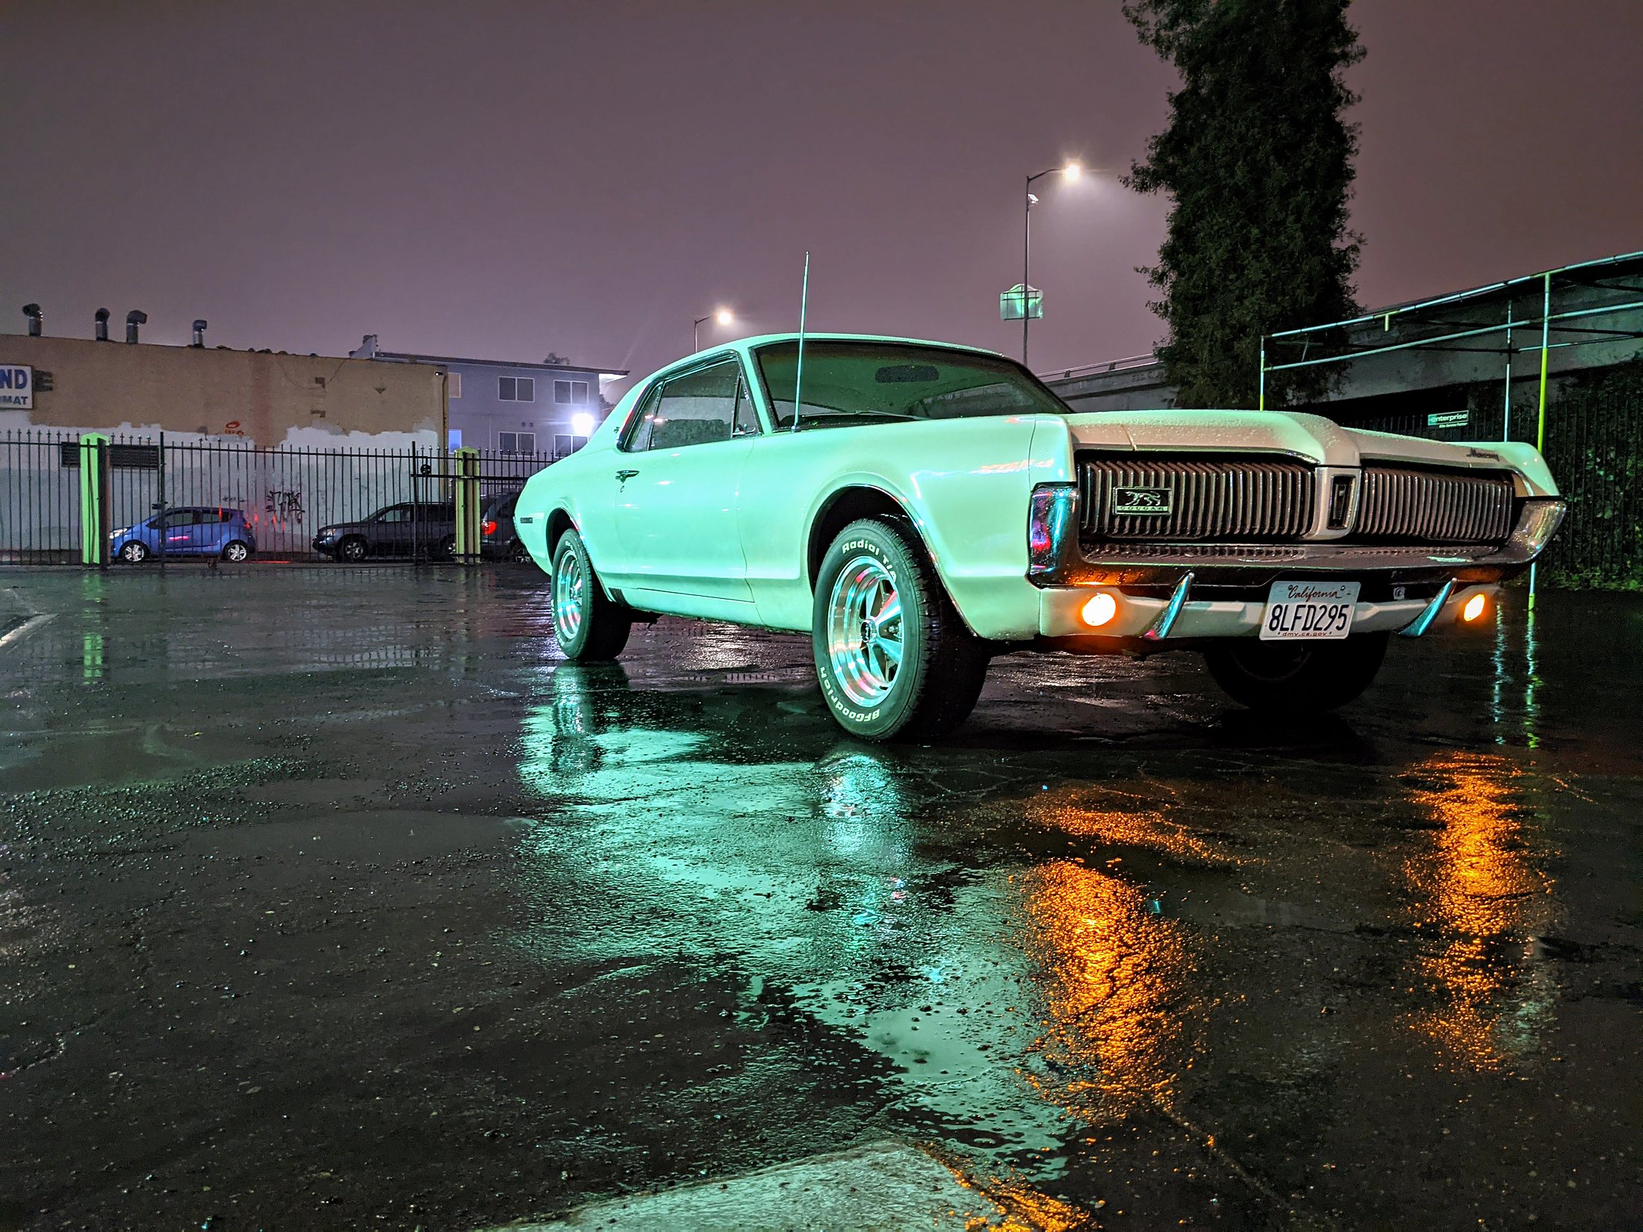
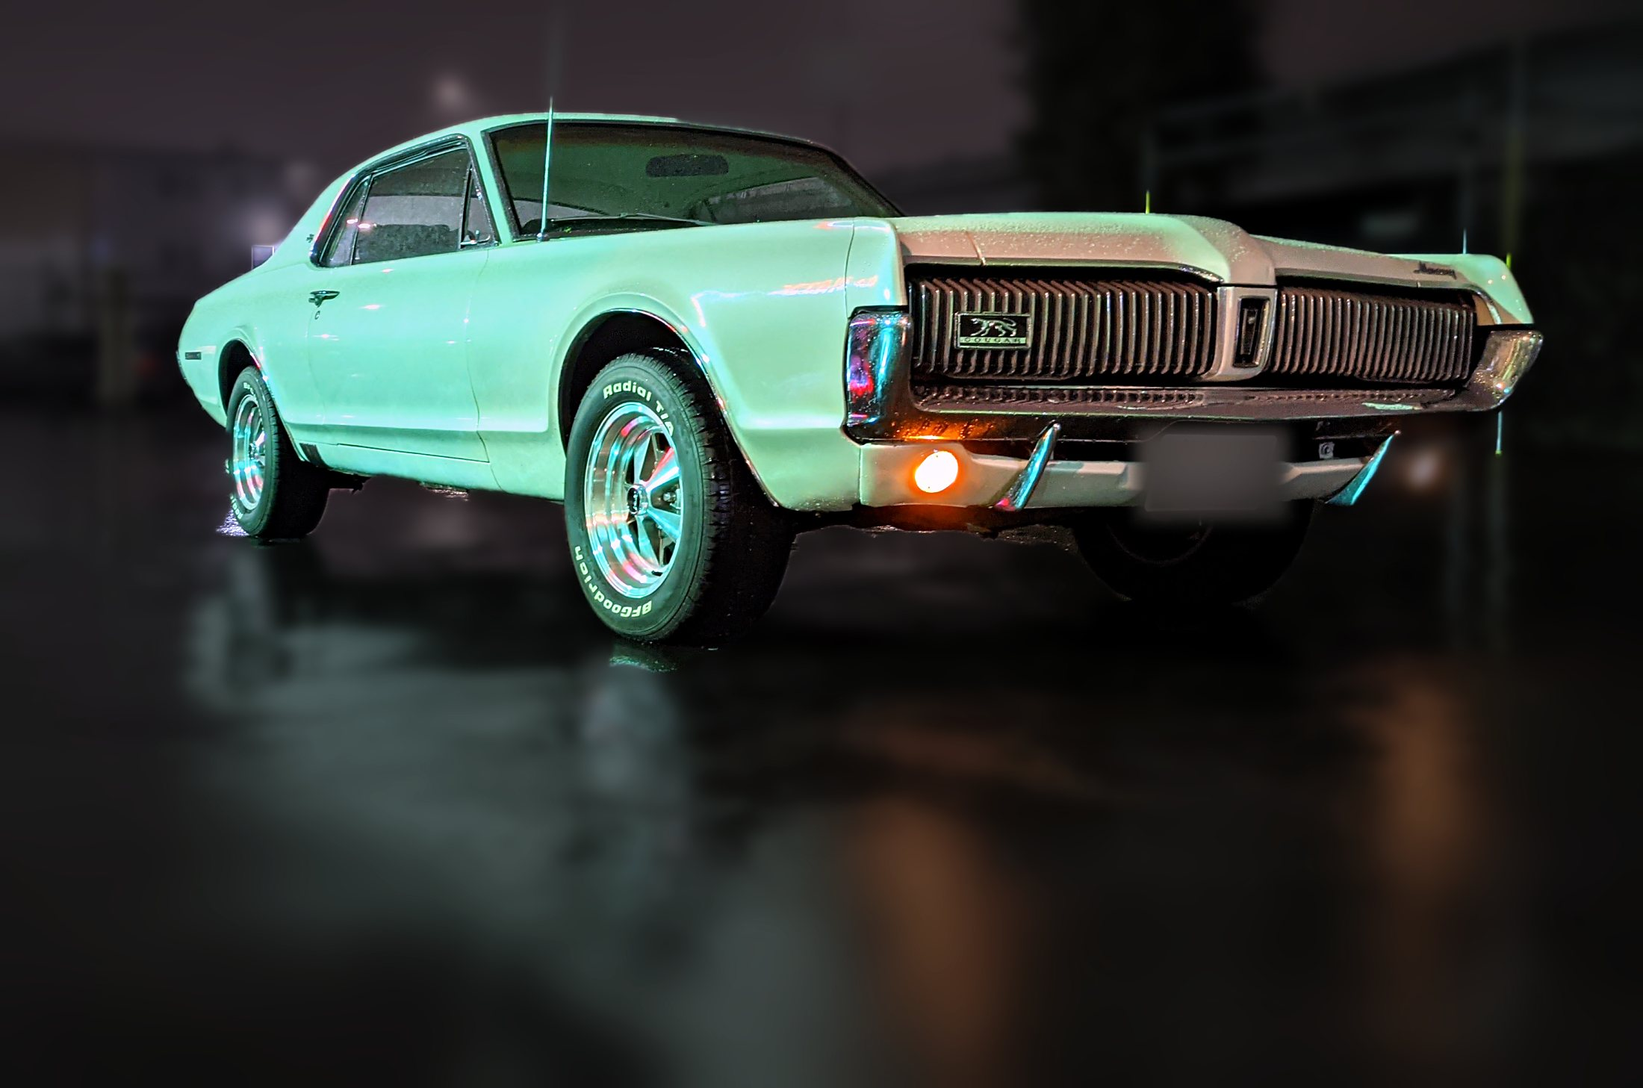
Privacy blurs, tighter crops, background treatment; ownership timeline

diff --git a/index.html b/index.html
@@ -27,7 +27,7 @@
 <header class="mast wrap">
   <p class="kicker">Classic Cougar &middot; XR-7 &middot; Offered Direct</p>
   <h1>1967 Mercury Cougar <span class="nb">XR-7</span></h1>
-  <p class="deck">Pearl white, no vinyl top and a 289 V8. A well-traveled driver’s car: one owner from new, then the West Coast Classic Cougars “shop mule,” now ready for the next road trip.</p>
+  <p class="deck">Pearl white, no vinyl top and a 289 V8. A well-traveled driver’s car with just three owners since new, including the West Coast Classic Cougars “shop mule,” now ready for the next road trip.</p>
   <p class="byline"><span>289 2V V8</span><span>C4 Automatic</span><span>Power Disc Brakes</span><span>Dual Exhaust</span></p>
 </header>
 
@@ -40,7 +40,7 @@
 
   <article class="story">
 
-    <p class="lede">Purchased new in Oregon by an electrical engineer who kept it for nearly five decades, this 1967 Cougar XR-7 passed to Don Rush, owner of West Coast Classic Cougars, who used it as a daily driver and shop car. It has been with its current Northern California owners since 2019, a family that runs a long-standing automotive body shop.</p>
+    <p class="lede">This 1967 Cougar XR-7 has had three owners. An electrical engineer bought it new in Oregon and kept it for 47 years, until 2014. It then passed to Don Rush, owner of West Coast Classic Cougars, who owned it until 2019. Its current Northern California owners, a family that runs a long-standing automotive body shop, have had it since 2019.</p>
 
     <h2>The Car</h2>
     <p>Mercury built the Cougar as the more refined cousin of the Mustang, and the XR-7 sat at the top of the 1967 line. It brought simulated wood trim, leather-trimmed bucket seats and a full instrument cluster with tachometer. Hidden headlamps, sequential rear turn signals and the long hood gave it the look that still sets it apart.</p>
@@ -54,24 +54,24 @@
     <h2>Ownership History</h2>
     <ol class="timeline">
       <li>
-        <span class="timeline__yr">1967</span>
+        <span class="timeline__yr">1967&ndash;2014</span>
         <div>
-          <h3>Original owner, Oregon</h3>
-          <p>An electrical engineer bought the Cougar new and used it to travel between dam projects across the West, putting roughly 320,000 miles on the car by the time West Coast Classic Cougars featured it. He maintained it himself, using his professional knowledge on the wiring, lighting and mechanical systems. The car arrived at the shop with a single, heavily worn shop manual rather than a stack of invoices. In the early 2000s he rebuilt the engine, restored the interior and repainted the car from Mercury Green to pearlescent white. The finished car won several local awards.</p>
+          <h3>First owner, Oregon &middot; 47 years</h3>
+          <p>An electrical engineer bought the Cougar new in 1967 and kept it for 47 years. He used it to travel between dam projects across the West, and the car shows about 320,000 miles overall. He maintained it himself, using his professional knowledge on the wiring, lighting and mechanical systems. The car arrived at the shop with a single, heavily worn shop manual rather than a stack of invoices. In the early 2000s he rebuilt the engine, restored the interior and repainted the car from Mercury Green to pearlescent white. The finished car won several local awards.</p>
         </div>
       </li>
       <li>
         <span class="timeline__yr">2014&ndash;19</span>
         <div>
-          <h3>Don Rush, West Coast Classic Cougars</h3>
+          <h3>Second owner: Don Rush, West Coast Classic Cougars &middot; 5 years</h3>
           <p>After the original owner passed away, the car went to his close friend and advisor Don Rush, who had helped source parts and restore elements of the Cougar over the years. Rush is the owner of West Coast Classic Cougars, a well-known resource for Cougar owners, parts and restoration advice. The Cougar, nicknamed “Pearl,” served as a shop mule and daily driver for about five years, used for test-fitting parts and filming how-to videos. Rather than a sterile restoration, the goal was to keep it a reliable, driver-quality car. The shop replaced the sagging leaf springs to cure the classic Cougar driver-side lean, repaired the dash, restored the steering wheel, rebuilt the Rallye clock and added projector-beam halogen headlights and one-off milled wheels. The car has been featured in news publications and on Rush’s YouTube show.</p>
         </div>
       </li>
       <li>
-        <span class="timeline__yr">2019</span>
+        <span class="timeline__yr">2019&ndash;now</span>
         <div>
-          <h3>Current owners, Northern California</h3>
-          <p>Don Rush sold the Cougar in 2019 to its current owners, who run a long-standing, top-tier automotive body shop in Northern California. They are long-time enthusiasts who value the car’s history and have continued to look after it.</p>
+          <h3>Third (current) owner, Northern California</h3>
+          <p>Don Rush sold the Cougar in 2019 to its current owners, the car’s third owner, who run a long-standing, top-tier automotive body shop in Northern California. They are long-time enthusiasts who value the car’s history and have continued to look after it.</p>
         </div>
       </li>
     </ol>
@@ -137,7 +137,8 @@
         <div><dt>Interior</dt><dd>Matching white</dd></div>
         <div><dt>Roof</dt><dd>No vinyl top</dd></div>
         <div><dt>Wheels</dt><dd>One-off milled, BFGoodrich Radial T/A</dd></div>
-        <div><dt>Odometer</dt><dd>About 320,000 miles (as stated in the WCCC video)</dd></div>
+        <div><dt>Odometer</dt><dd>About 320,000 miles</dd></div>
+        <div><dt>Owners</dt><dd>Three, since new</dd></div>
         <div><dt>Condition</dt><dd>Unrestored driver, typical rust spots</dd></div>
         <div><dt>Records</dt><dd>Documentation and service records</dd></div>
         <div><dt>Location</dt><dd>San Francisco Bay Area</dd></div>
@@ -162,11 +163,7 @@
     <a class="g g--w" href="img/street-wide.jpg"><img style="object-position:50% 72%" src="img/street-wide-sm.jpg" alt="Cougar parked on a city street at dusk" loading="lazy"><span>Street scene at dusk</span></a>
     <a class="g" href="img/underside.jpg"><img style="object-position:50% 50%" src="img/underside-sm.jpg" alt="Undercarriage of the car on a lift" loading="lazy"><span>Undercarriage on the lift</span></a>
     <a class="g" href="img/grass-front.jpg"><img src="img/grass-front-sm.jpg" alt="Front three-quarter view on grass" loading="lazy"><span>Front three-quarter</span></a>
-    <a class="g" href="img/grass-low.jpg"><img src="img/grass-low-sm.jpg" alt="Low front view in golden light" loading="lazy"><span>Golden hour, low</span></a>
-    <a class="g" href="img/grass-hood.jpg"><img src="img/grass-hood-sm.jpg" alt="Hood and grille from above in golden light" loading="lazy"><span>Hood and grille</span></a>
-    <a class="g" href="img/grass-overhead.jpg"><img src="img/grass-overhead-sm.jpg" alt="Overhead view of hood and cabin" loading="lazy"><span>Overhead</span></a>
-    <a class="g" href="img/grass-rear-side.jpg"><img src="img/grass-rear-side-sm.jpg" alt="Rear three-quarter view on grass" loading="lazy"><span>Rear three-quarter</span></a>
-    <a class="g" href="img/grass-rear.jpg"><img src="img/grass-rear-sm.jpg" alt="Rear quarter view with milled wheels" loading="lazy"><span>Rear quarter</span></a>
+    <a class="g g--w" href="img/grass-rear.jpg"><img src="img/grass-rear-sm.jpg" alt="Rear quarter view with milled wheels" loading="lazy"><span>Rear quarter</span></a>
   </div>
   <p class="note">More photos, including detail shots, are available on request.</p>
 </section>

diff --git a/tools/process.py b/tools/process.py
@@ -1,0 +1,144 @@
+import sys, os, numpy as np, cv2
+from PIL import Image, ImageFilter
+sys.path.insert(0, os.path.dirname(__file__))
+from cfg import CFG
+import grade as G   # reuse grade() / P presets  (grade.py guards its batch loop)
+
+SRC = r'C:\Users\rhkal\AppData\Local\Temp\claude\C--Users-rhkal\c50d7345-d0a9-4127-98ac-6b742ef4643e\images'
+OUT = r'C:\Users\rhkal\cougar-xr7\img'
+DBG = r'C:\Users\rhkal\AppData\Local\Temp\claude\C--Users-rhkal\c50d7345-d0a9-4127-98ac-6b742ef4643e\scratchpad\dbg'
+os.makedirs(DBG, exist_ok=True)
+
+
+def poly_mask(shape, pts, s):
+    m = np.zeros(shape[:2], np.uint8)
+    cv2.fillPoly(m, [np.round(np.array(pts, np.float64) * s).astype(np.int32)], 255)
+    return m
+
+
+def privacy_blur(img, regions, s, protect=None):
+    """Strongly blur each region (feathered) so plates / faces / signage are unreadable."""
+    out = img.astype(np.float32)
+    for pts in regions:
+        m = poly_mask(img.shape, pts, s)
+        x, y, w, h = cv2.boundingRect(m)
+        sig = max(6.0, 0.33 * min(w, h)) if min(w, h) < 120 * s else max(10.0, 0.18 * min(w, h))
+        sig = min(sig, 40 * s)
+        k = int(sig * 6) | 1
+        pad = int(sig * 3)
+        x0, y0, x1, y1 = max(0, x - pad), max(0, y - pad), min(img.shape[1], x + w + pad), min(img.shape[0], y + h + pad)
+        patch = cv2.GaussianBlur(img[y0:y1, x0:x1], (k, k), sig).astype(np.float32)
+        # blur twice for text so edges don't survive
+        patch = cv2.GaussianBlur(patch, (k, k), sig)
+        fm = cv2.GaussianBlur(m[y0:y1, x0:x1].astype(np.float32) / 255, (0, 0), max(2, sig * .25))
+        if protect is not None:
+            fm = fm * (1 - protect[y0:y1, x0:x1])
+        fm = fm[..., None]
+        out[y0:y1, x0:x1] = out[y0:y1, x0:x1] * (1 - fm) + patch * fm
+    return np.clip(out, 0, 255).astype(np.uint8)
+
+
+def car_mask(img, pts, s, grab=True, band=0.018):
+    """Hand-drawn outline -> GrabCut-refined mask (computed at <=1400px wide)."""
+    H, W = img.shape[:2]
+    k = min(1.0, 1400 / W)
+    small = cv2.resize(img, (round(W * k), round(H * k)), interpolation=cv2.INTER_AREA)
+    sh, sw = small.shape[:2]
+    P = poly_mask(small.shape, pts, s * k)
+    bw = max(5, int(sw * band))
+    ker = cv2.getStructuringElement(cv2.MORPH_ELLIPSE, (2 * bw + 1, 2 * bw + 1))
+    sure_fg = cv2.erode(P, ker)
+    probable = cv2.dilate(P, ker)
+    m = np.full((sh, sw), cv2.GC_BGD, np.uint8)
+    m[probable > 0] = cv2.GC_PR_BGD
+    m[P > 0] = cv2.GC_PR_FGD
+    m[sure_fg > 0] = cv2.GC_FGD
+    if grab:
+        bgd = np.zeros((1, 65)); fgd = np.zeros((1, 65))
+        cv2.grabCut(cv2.cvtColor(small, cv2.COLOR_RGB2BGR), m, None, bgd, fgd, 6, cv2.GC_INIT_WITH_MASK)
+    fg = ((m == cv2.GC_FGD) | (m == cv2.GC_PR_FGD)).astype(np.uint8) * 255
+    fg = cv2.morphologyEx(fg, cv2.MORPH_CLOSE, cv2.getStructuringElement(cv2.MORPH_ELLIPSE, (9, 9)))
+    n, lab, st, _ = cv2.connectedComponentsWithStats(fg)
+    if n > 1:
+        fg = (lab == 1 + np.argmax(st[1:, cv2.CC_STAT_AREA])).astype(np.uint8) * 255
+    # fill holes
+    inv = 255 - fg
+    n, lab, st, _ = cv2.connectedComponentsWithStats(inv)
+    for i in range(1, n):
+        x, y, w, h = st[i, :4]
+        if x > 0 and y > 0 and x + w < sw and y + h < sh:
+            fg[lab == i] = 255
+    fg = cv2.GaussianBlur(fg, (0, 0), 1.2)
+    return cv2.resize(fg, (W, H), interpolation=cv2.INTER_LINEAR).astype(np.float32) / 255
+
+
+def treat_background(img, alpha, bg):
+    """Darken + desaturate + distance-weighted blur on everything that is not the car."""
+    f = img.astype(np.float32) / 255
+    a = alpha[..., None]
+    w = img.shape[1]
+    inv = 1 - a
+
+    def mblur(sig):
+        num = cv2.GaussianBlur(f * inv, (0, 0), sig)
+        den = cv2.GaussianBlur(inv, (0, 0), sig)[..., None]
+        return np.where(den > 1e-3, num / np.maximum(den, 1e-3), cv2.GaussianBlur(f, (0, 0), sig))
+
+    s1, s2 = bg['blur'] * w * .5, bg['blur'] * w * 1.8
+    b1, b2 = mblur(s1), mblur(s2)
+    dist = cv2.distanceTransform((alpha < .5).astype(np.uint8), cv2.DIST_L2, 5)
+    t = np.clip(dist / (0.22 * w), 0, 1)[..., None]
+    t = t * t * (3 - 2 * t)
+    bgi = b1 * (1 - t) + b2 * t
+    lum = (bgi[..., 0] * .2126 + bgi[..., 1] * .7152 + bgi[..., 2] * .0722)[..., None]
+    bgi = lum + (bgi - lum) * (1 - bg['desat'])
+    bgi *= bg['dark']
+    bgi = np.where(bgi < .26, bgi, .26 + (bgi - .26) * .35)   # tame bright backgrounds so nothing glows around the car
+    car = np.clip(f * 1.04, 0, 1)
+    return np.clip(car * a + bgi * (1 - a), 0, 1)
+
+
+def run(name, review=False):
+    c = CFG[name]
+    img = np.array(Image.open(os.path.join(SRC, c['src'])).convert('RGB'))
+    H, W = img.shape[:2]
+    s = W / 1000.0
+    alpha = None
+    if c.get('car'):
+        alpha = car_mask(img, c['car'], s, c.get('grab', True), c.get('band', 0.018))   # outline is traced on the untouched photo
+    prot = None
+    if alpha is not None:
+        prot = cv2.dilate(alpha, cv2.getStructuringElement(cv2.MORPH_ELLIPSE, (7, 7)))
+    img = privacy_blur(img, c.get('blur', []), s, protect=prot)     # signage etc: background only
+    img = privacy_blur(img, c.get('plates', []), s)                  # plates / faces: everywhere
+    if review and alpha is not None:
+        ov = img.copy().astype(np.float32)
+        ov[..., 0] = ov[..., 0] * (1 - .45 * alpha) + 255 * .45 * alpha
+        cv2.polylines(ov, [np.round(np.array(c['car']) * s).astype(np.int32)], True, (0, 255, 255), max(1, int(s)))
+        v = Image.fromarray(np.clip(ov, 0, 255).astype(np.uint8)); v.thumbnail((1100, 1100))
+        v.save(os.path.join(DBG, name + '_mask.jpg'), quality=85)
+    if c.get('crop'):
+        x0, y0, x1, y1 = [int(round(v * s)) for v in c['crop']]
+        x0, y0 = max(0, x0), max(0, y0); x1, y1 = min(W, x1), min(H, y1)
+        img = img[y0:y1, x0:x1]
+        alpha = alpha[y0:y1, x0:x1] if alpha is not None else None
+    h, w = img.shape[:2]
+    tw = 2200 if w > 2000 else (1280 if h > w else 1600)
+    th = round(h * tw / w)
+    img = cv2.resize(img, (tw, th), interpolation=cv2.INTER_LANCZOS4 if tw > w else cv2.INTER_AREA)
+    if alpha is not None:
+        alpha = np.clip(cv2.resize(alpha, (tw, th), interpolation=cv2.INTER_LINEAR), 0, 1)
+        out = treat_background(img, alpha, c['bg'])
+        img = (out * 255).astype(np.uint8)
+    g = G.grade(Image.fromarray(img), G.P[c['preset']]).filter(ImageFilter.UnsharpMask(1.0, 45, 3))
+    g.save(os.path.join(OUT, name + '.jpg'), quality=84, optimize=True, progressive=True)
+    t = g.copy(); t.thumbnail((900, 900))
+    t.save(os.path.join(OUT, name + '-sm.jpg'), quality=80, optimize=True, progressive=True)
+    return g
+
+
+if __name__ == '__main__':
+    names = [n for n in sys.argv[1:] if not n.startswith('-')] or list(CFG)
+    for n in names:
+        run(n, review=True)
+        print('done', n)

diff --git a/tools/cfg.py b/tools/cfg.py
@@ -1,0 +1,48 @@
+# Coordinates are in "preview space": the source image scaled to 1000px wide (see grid.py).
+R = lambda x0, y0, x1, y1: [(x0, y0), (x1, y0), (x1, y1), (x0, y1)]
+
+CFG = {
+ 'front-dusk': dict(src='11.jpg', preset='dusk', crop=(0, 150, 900, 750),
+   car=[(42,388),(55,362),(100,342),(170,328),(230,322),(300,318),(410,318),(445,280),(480,266),(560,256),(620,253),(660,258),(700,275),(735,300),(780,340),(815,372),(822,385),(815,400),(795,410),(790,440),(775,470),(745,478),(728,465),(724,450),(690,446),(600,447),(555,455),(550,500),(520,538),(480,546),(430,536),(405,505),(400,495),(340,492),(300,488),(210,487),(150,470),(100,450),(60,430),(45,412)],
+   plates=[R(148,442,212,492)], blur=[                                       # plate
+         [(350,112),(560,172),(735,240),(735,280),(560,220),(350,152)],   # neon storefront text
+         R(268,50,322,110), R(775,215,825,250), [(640,140),(720,150),(722,265),(645,255)],
+         R(315,250,600,400)],                                          # store windows / people
+   bg=dict(dark=.55, desat=.55, blur=.010)),
+ 'profile': dict(src='1.jpg', preset='day', crop=(20, 260, 980, 740),
+   band=.010, car=[(64,538),(75,505),(110,490),(200,478),(290,455),(320,428),(360,416),(500,413),(548,417),(580,455),(630,488),(700,480),(830,490),(915,512),(942,540),(945,565),(915,580),(870,575),(850,600),(845,630),(820,652),(785,660),(745,650),(718,620),(712,600),(640,608),(560,610),(430,608),(335,605),(328,640),(305,660),(262,665),(222,655),(205,620),(205,590),(150,585),(95,575),(68,560)],
+   blur=[R(430,290,530,405)],                                       # people on the porch
+   bg=dict(dark=.62, desat=.5, blur=.011)),
+ 'night-quarter': dict(src='2.jpg', preset='night', crop=(40, 320, 800, 743),
+   car=[(130,525),(135,500),(200,488),(290,478),(325,460),(350,430),(380,415),(440,412),(550,418),(580,428),(640,455),(700,495),(715,520),(718,560),(695,580),(690,615),(665,640),(640,645),(630,620),(620,600),(560,600),(540,610),(540,650),(515,668),(490,660),(475,620),(440,610),(420,590),(380,600),(300,605),(270,625),(260,645),(235,650),(190,645),(182,625),(170,590),(140,570),(130,545)],
+   plates=[R(250,572,318,612)], blur=[R(490,245,555,340), R(375,340,440,390), R(0,265,110,325), R(895,445,990,490)],
+   bg=dict(dark=.5, desat=.5, blur=.009)),
+ 'rear-lamps': dict(src='4.jpg', preset='night', crop=(20, 100, 760, 520),
+   car=[(20+X/2.817,110+Y/2.817) for X,Y in [(100,470),(120,430),(180,400),(270,360),(330,300),(380,245),(450,190),(560,120),(650,90),(720,76),(900,95),(1040,112),(1180,150),(1300,190),(1380,235),(1450,285),(1600,300),(1800,322),(1890,345),(1925,395),(1940,455),(1935,490),(1900,540),(1840,585),(1700,640),(1590,675),(1570,700),(1565,780),(1520,815),(1440,825),(1340,800),(1305,750),(1250,730),(1170,725),(1100,745),(1000,750),(900,742),(860,748),(790,728),(752,705),(748,780),(705,832),(630,850),(572,832),(540,775),(535,700),(500,640),(400,650),(330,640),(295,650),(292,700),(280,735),(215,742),(160,730),(135,690),(130,600),(105,520)]], band=.008,
+   plates=[R(522,252,592,296)], blur=[R(490,135,570,168), R(750,165,790,195), R(815,155,868,188), R(895,145,950,175), R(940,130,975,175)],
+   bg=dict(dark=.5, desat=.5, blur=.009)),
+ 'front-rain': dict(src='5.jpg', preset='night', crop=(130, 120, 830, 600),
+   car=None,
+   plates=[R(432,360,534,412)], blur=[R(100,180,280,228), R(0,205,40,255)],
+   bg=dict(dark=.5, desat=.5, blur=.009)),
+ 'rain-quarter': dict(src='15.jpg', preset='night', crop=(230, 150, 1000, 660),
+   car=[(312,300),(320,282),(345,270),(375,240),(405,215),(450,205),(520,203),(580,210),(640,238),(655,252),(740,250),(830,255),(900,268),(945,295),(950,320),(935,345),(890,358),(880,380),(850,392),(840,420),(780,430),(745,415),(738,395),(690,388),(640,390),(600,425),(570,448),(530,450),(498,420),(495,380),(470,372),(400,370),(380,395),(350,398),(335,380),(330,350),(315,325)],
+   plates=[R(762,350,834,395)], blur=[R(0,222,32,252), R(605,168,640,198)],
+   bg=dict(dark=.5, desat=.5, blur=.009)),
+ 'street-wide': dict(src='9.jpg', preset='dusk', crop=(60, 300, 700, 520),
+   car=[(120+X/4.348,360+Y/4.348) for X,Y in [(118,350),(124,312),(150,286),(230,262),(350,245),(520,232),(700,225),(790,200),(880,130),(930,92),(975,75),(1100,63),(1250,62),(1390,72),(1480,100),(1560,150),(1650,172),(1780,190),(1860,215),(1900,255),(1912,290),(1890,330),(1862,355),(1840,385),(1760,395),(1740,420),(1735,480),(1700,508),(1650,517),(1590,505),(1555,470),(1525,466),(1400,462),(1100,458),(900,455),(850,480),(840,540),(800,600),(740,628),(680,620),(620,580),(600,520),(560,535),(480,520),(400,500),(330,498),(285,525),(250,520),(200,460),(160,430),(130,395),(118,360)]], grab=False,
+   blur=[[(380,215),(750,268),(750,302),(380,252)], R(335,170,370,215), R(665,185,715,262), R(825,230,875,262), R(365,285,600,395)],
+   bg=dict(dark=.6, desat=.5, blur=.007)),
+ # grass series: low-resolution originals
+ 'grass-front': dict(src='17.png', preset='golden', crop=None, grab=True,
+   car=None,
+   blur=[], bg=dict(dark=.62, desat=.45, blur=.008)),
+ 'grass-rear': dict(src='16.png', preset='golden', crop=None, grab=True,
+   car=None,
+   blur=[], bg=dict(dark=.62, desat=.45, blur=.008)),
+ # interiors / detail: no background treatment, only crop + privacy
+ 'cockpit-road': dict(src='7.jpg', preset='day', crop=(0, 170, 1000, 750), car=None, plates=[R(452,282,582,348)], blur=[]),
+ 'engine-bay': dict(src='3.jpg', preset='night', crop=(40, 0, 940, 740), car=None, blur=[]),
+ 'interior': dict(src='23.png', preset='golden', crop=None, car=None, blur=[]),
+ 'underside': dict(src='6.jpg', preset='detail', crop=(0, 40, 960, 1100), car=None, blur=[], crop_abs=True),
+}

diff --git a/tools/grade.py b/tools/grade.py
@@ -36,15 +36,16 @@ def grade(im,p):
     d=((x-w/2)/(w/2))**2+((y-h/2)/(h/2))**2
     a=a*(1-p['vig']*np.clip(d/2,0,1)**1.2)[...,None]
     return Image.fromarray((np.clip(a,0,1)*255).astype(np.uint8))
-for f,slug,pre in J:
-    im=Image.open(os.path.join(SRC,f)).convert('RGB')
-    if im.height>im.width: target=(1280,int(1280*im.height/im.width))
-    else:
-        tw=2200 if im.width>2500 else 1600
-        target=(tw,int(tw*im.height/im.width))
-    im=im.resize(target,Image.LANCZOS)
-    g=grade(im,P[pre]).filter(ImageFilter.UnsharpMask(1.0,45,3))
-    g.save(os.path.join(OUT,slug+'.jpg'),quality=84,optimize=True,progressive=True)
-    t=g.copy(); t.thumbnail((900,900)); t.save(os.path.join(OUT,slug+'-sm.jpg'),quality=80,optimize=True,progressive=True)
-    print(slug,g.size)
-
+if __name__=='__main__':
+    for f,slug,pre in J:
+        im=Image.open(os.path.join(SRC,f)).convert('RGB')
+        if im.height>im.width: target=(1280,int(1280*im.height/im.width))
+        else:
+            tw=2200 if im.width>2500 else 1600
+            target=(tw,int(tw*im.height/im.width))
+        im=im.resize(target,Image.LANCZOS)
+        g=grade(im,P[pre]).filter(ImageFilter.UnsharpMask(1.0,45,3))
+        g.save(os.path.join(OUT,slug+'.jpg'),quality=84,optimize=True,progressive=True)
+        t=g.copy(); t.thumbnail((900,900)); t.save(os.path.join(OUT,slug+'-sm.jpg'),quality=80,optimize=True,progressive=True)
+        print(slug,g.size)
+    

diff --git a/tools/grid.py b/tools/grid.py
@@ -1,0 +1,18 @@
+import sys,os
+from PIL import Image,ImageDraw
+SRC=r'C:\Users\rhkal\AppData\Local\Temp\claude\C--Users-rhkal\c50d7345-d0a9-4127-98ac-6b742ef4643e\images'
+OUT=r'C:\Users\rhkal\AppData\Local\Temp\claude\C--Users-rhkal\c50d7345-d0a9-4127-98ac-6b742ef4643e\scratchpad'
+for f in sys.argv[1:]:
+    im=Image.open(os.path.join(SRC,f)).convert('RGB')
+    s=1000/im.width; im=im.resize((1000,round(im.height*s)))
+    d=ImageDraw.Draw(im)
+    for x in range(0,1000,50):
+        c=(255,255,0) if x%100==0 else (255,255,255)
+        d.line([(x,0),(x,im.height)],fill=c+(0,),width=1)
+        if x%100==0: d.text((x+2,2),str(x),fill=(255,255,0))
+    for y in range(0,im.height,50):
+        c=(255,255,0) if y%100==0 else (255,255,255)
+        d.line([(0,y),(1000,y)],fill=c,width=1)
+        if y%100==0: d.text((2,y+2),str(y),fill=(255,255,0))
+    im.save(os.path.join(OUT,'g_'+f.split('.')[0]+'.png'))
+    print(f,im.size)
